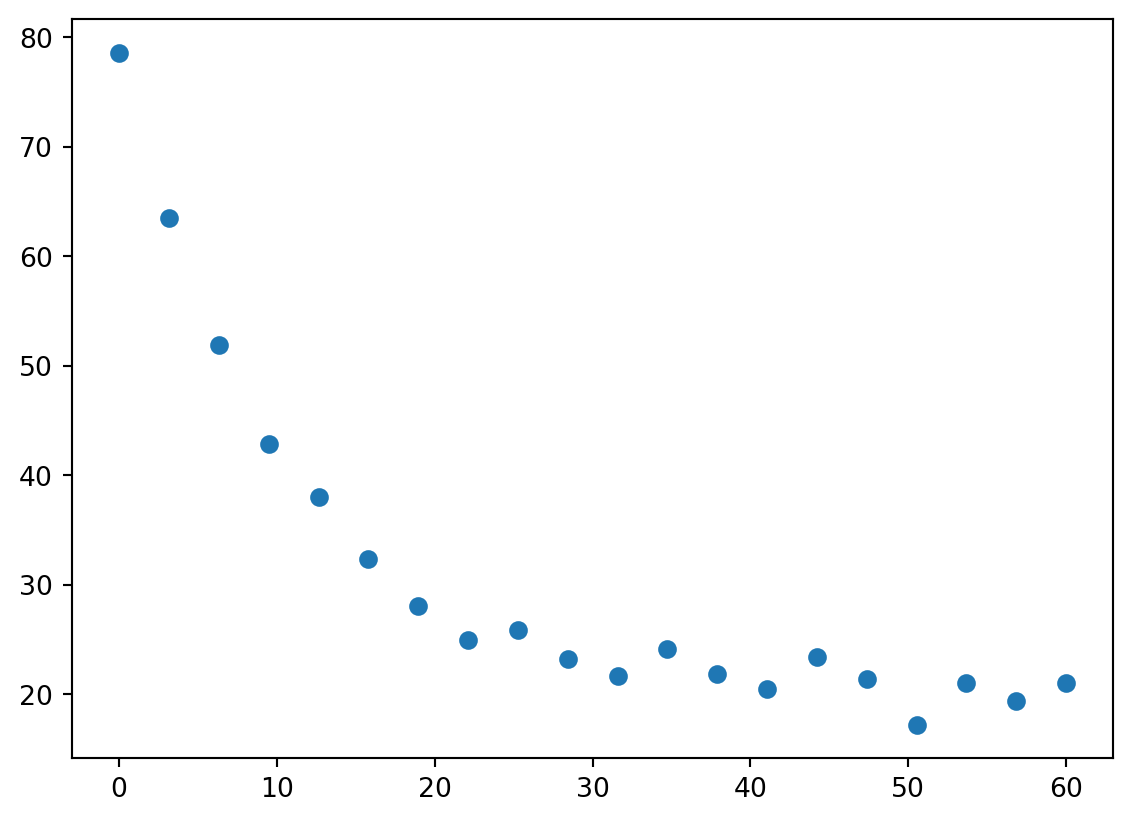
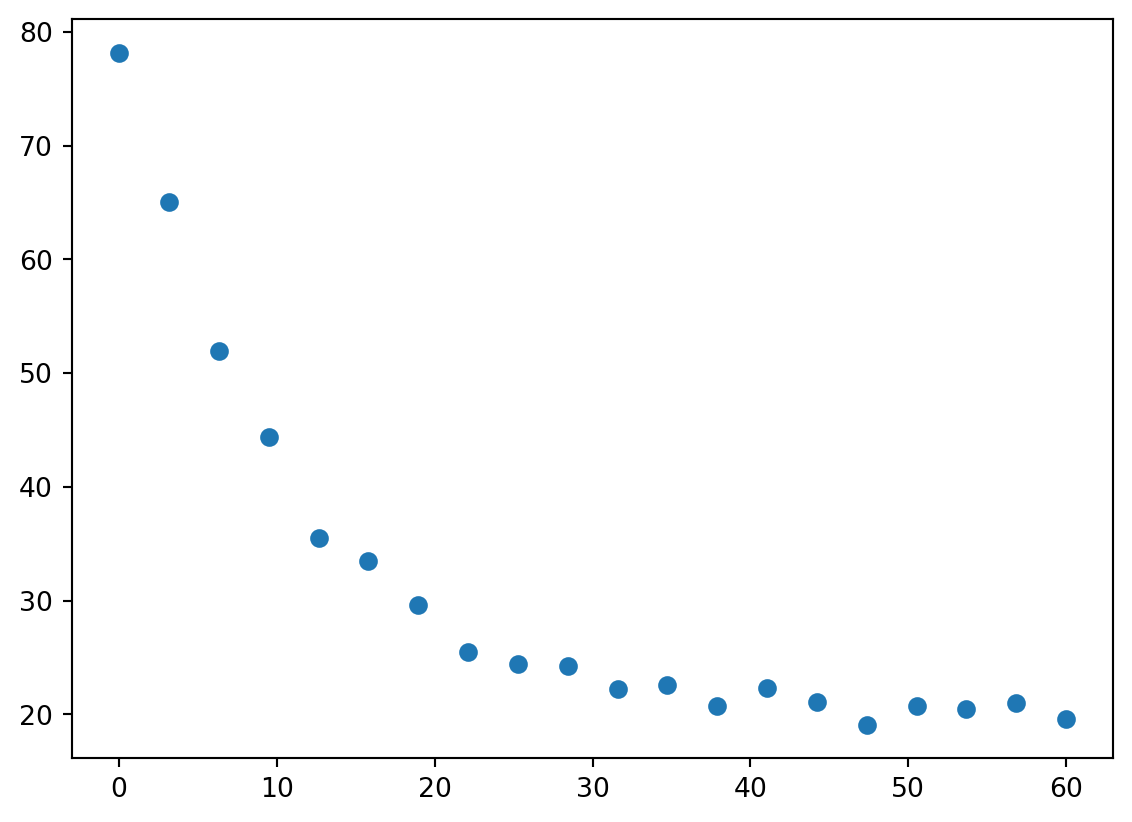
Built site for gh-pages

diff --git a/trabajos practicos/tp 05.html b/trabajos practicos/tp 05.html
@@ -329,8 +329,7 @@ window.Quarto = {
   <li><a href="#decaimiento-radioactivo" id="toc-decaimiento-radioactivo" class="nav-link" data-scroll-target="#decaimiento-radioactivo"><span class="header-section-number">1.4</span> Decaimiento Radioactivo</a></li>
   </ul></li>
   <li><a href="#solver" id="toc-solver" class="nav-link" data-scroll-target="#solver"><span class="header-section-number">2</span> Solver</a></li>
-  <li><a href="#gráficas" id="toc-gráficas" class="nav-link" data-scroll-target="#gráficas"><span class="header-section-number">3</span> Gráficas</a></li>
-  <li><a href="#modalidad-y-fecha-de-entrega" id="toc-modalidad-y-fecha-de-entrega" class="nav-link" data-scroll-target="#modalidad-y-fecha-de-entrega"><span class="header-section-number">4</span> Modalidad y fecha de entrega</a></li>
+  <li><a href="#modalidad-y-fecha-de-entrega" id="toc-modalidad-y-fecha-de-entrega" class="nav-link" data-scroll-target="#modalidad-y-fecha-de-entrega"><span class="header-section-number">3</span> Modalidad y fecha de entrega</a></li>
   </ul>
 </nav>
     </div>
@@ -366,7 +365,7 @@ window.Quarto = {
 v(t)=v_t \left(1-e^{kt} \right)
 \]</span></p>
 <p>Donde <span class="math inline">\(v_t\)</span> es la velocidad terminal del cuerpo (sumna de fuerzas igual a cero)</p>
-<div id="0e567b8d" class="cell" data-execution_count="1">
+<div id="718c9f52" class="cell" data-execution_count="1">
 <div class="cell-output cell-output-display">
 <div>
 <figure class="figure">
@@ -389,7 +388,7 @@ v(t)=v_t \left(1-e^{kt} \right)
 T(t) = T_{\text{amb}} + (T_0 - T_{\text{amb}}) e^{-kt}
 \]</span></p>
 <p>Aplique los conceptos de linealización para ajustar los datos que se le proveen.</p>
-<div id="02f3bb41" class="cell" data-execution_count="2">
+<div id="1f11e99c" class="cell" data-execution_count="2">
 <div class="cell-output cell-output-display">
 <div>
 <figure class="figure">
@@ -399,7 +398,7 @@ T(t) = T_{\text{amb}} + (T_0 - T_{\text{amb}}) e^{-kt}
 </div>
 </div>
 <ol type="1">
-<li>Importar los datos de <a href="..\assets/datos_enfriamiento.csv.csv">este archivo</a> a calc.</li>
+<li>Importar los datos de <a href="..\assets/datos_enfriamiento.csv">este archivo</a> a calc.</li>
 <li>Grafique los datos. Encuentre <span class="math inline">\(T_0\)</span> y <span class="math inline">\(T_{\text{amb}}\)</span></li>
 <li>Graficar ln(T - T_amb) vs.&nbsp;tiempo.</li>
 <li>Realizar regresión lineal para obtener <span class="math inline">\(k\)</span>.</li>
@@ -429,7 +428,7 @@ N(t) = N_0 e^{-\lambda t}
 \]</span></p>
 <p>Donde <span class="math inline">\(N_0\)</span> es la cantidad de particulas iniciales y <span class="math inline">\(\lambda\)</span> la constante de desintegración.</p>
 <ol type="1">
-<li>Importar los datos de <a href="..\assets/datos_desintegracion.csv.csv">este archivo</a> a calc</li>
+<li>Importar los datos de <a href="..\assets/datos_desintegracion.csv">este archivo</a> a calc</li>
 <li>Graficar los datos.</li>
 <li>Linealizar el modelo.</li>
 <li>Graficar los datos linealizados</li>
@@ -440,12 +439,13 @@ N(t) = N_0 e^{-\lambda t}
 </section>
 <section id="solver" class="level1" data-number="2">
 <h1 data-number="2"><span class="header-section-number">2</span> Solver</h1>
+<ol type="1">
+<li>Usar los archivos del punto anterior y obtener el la ecuación ajustando con <em>solver</em></li>
+<li>Graficar en un mismo lienzo (gráfico) los datos experimentales y la ecuación del ajuste</li>
+</ol>
 </section>
-<section id="gráficas" class="level1" data-number="3">
-<h1 data-number="3"><span class="header-section-number">3</span> Gráficas</h1>
-</section>
-<section id="modalidad-y-fecha-de-entrega" class="level1" data-number="4">
-<h1 data-number="4"><span class="header-section-number">4</span> Modalidad y fecha de entrega</h1>
+<section id="modalidad-y-fecha-de-entrega" class="level1" data-number="3">
+<h1 data-number="3"><span class="header-section-number">3</span> Modalidad y fecha de entrega</h1>
 <p>Cada ejercicio deberá estar en una hoja diferente de un mismo libro de Libre Office Calc.</p>
 <p>Vía aula virtual <a href="https://inspt.cvg.utn.edu.ar/course/view.php?id=2201#section-1">acá</a> según fecha indicada en la tarea.</p>
 

diff --git a/clases/clase-11.html b/clases/clase-11.html
@@ -362,15 +362,39 @@ window.Quarto = {
 </section>
 <section id="uso-de-solver" class="level2">
 <h2 class="anchored" data-anchor-id="uso-de-solver">Uso de solver</h2>
-<div id="a111e3b7" class="cell" data-execution_count="1">
-<div class="cell-output cell-output-display">
-<div>
+<p>Nos guiaremos con <a href="..\assets/solver.ods">este archivo de ejemplo</a></p>
+<p>Para aplicar <em>solver</em> a un conjunto de datos debemos hacer lo siguiente:</p>
+<ol type="1">
+<li>Tener nuestros datos experimentales en la planilla de cáculo</li>
+<li>Crear el modelo al cual ajustaremos nuestros datos en una celda 2.1 Usar una celda para cada parámetro que deseemos encontrar (dar un valo estimado)</li>
+<li>Crear una columna con las diferencias cuadráticas entre el modelo calculado y el medido</li>
+<li>Crear una celda con la sumatoria de las diferencias cuadráticas</li>
+<li>ir a <code>herramientas &gt; solver</code>. Tener seleccionada la celda de la sumatoria de las diferencias cuadráticas.</li>
+<li>Seguir los pasos del menu de solver como se muestra en las imágenes.</li>
+</ol>
+<div class="quarto-figure quarto-figure-center">
 <figure class="figure">
-<p><img src="clase-11_files/figure-html/cell-2-output-1.png" width="582" height="411" class="figure-img"></p>
+<p><img src="..\assets/calc-solver-01.png" class="img-fluid figure-img"></p>
+<figcaption>Menú de solver</figcaption>
 </figure>
 </div>
+<ol type="1">
+<li>Elegiremos minimizar los valores y luego pondremos las restriccione que consideremos a los signos o intervalos que pueden tener.</li>
+<li>En <code>opciones</code> seleccionaremos algunas de las opciones <code>no lineales</code></li>
+</ol>
+<div class="quarto-figure quarto-figure-center">
+<figure class="figure">
+<p><img src="..\assets/calc-solver-algoritmo.png" class="img-fluid figure-img"></p>
+<figcaption>Elección de algoritmo</figcaption>
+</figure>
 </div>
+<div class="quarto-figure quarto-figure-center">
+<figure class="figure">
+<p><img src="..\assets/calc-solver-fin.png" class="img-fluid figure-img"></p>
+<figcaption>Finalización</figcaption>
+</figure>
 </div>
+<p>Una vez ejecutado veremos como los resultados de nuestras columnas variables han cambiado. Si graficamos los valores del modelo junto a los experimentales podremos tener una visualización de que tan “bueno” es el ajuste. Podemos agregar mas puntos para graficar al crear una nueva tabla a partir de nuestro modelo con un intervalo menor entre valores sucesivos.</p>
 </section>
 <section id="referencias" class="level2">
 <h2 class="anchored" data-anchor-id="referencias">Referencias</h2>
